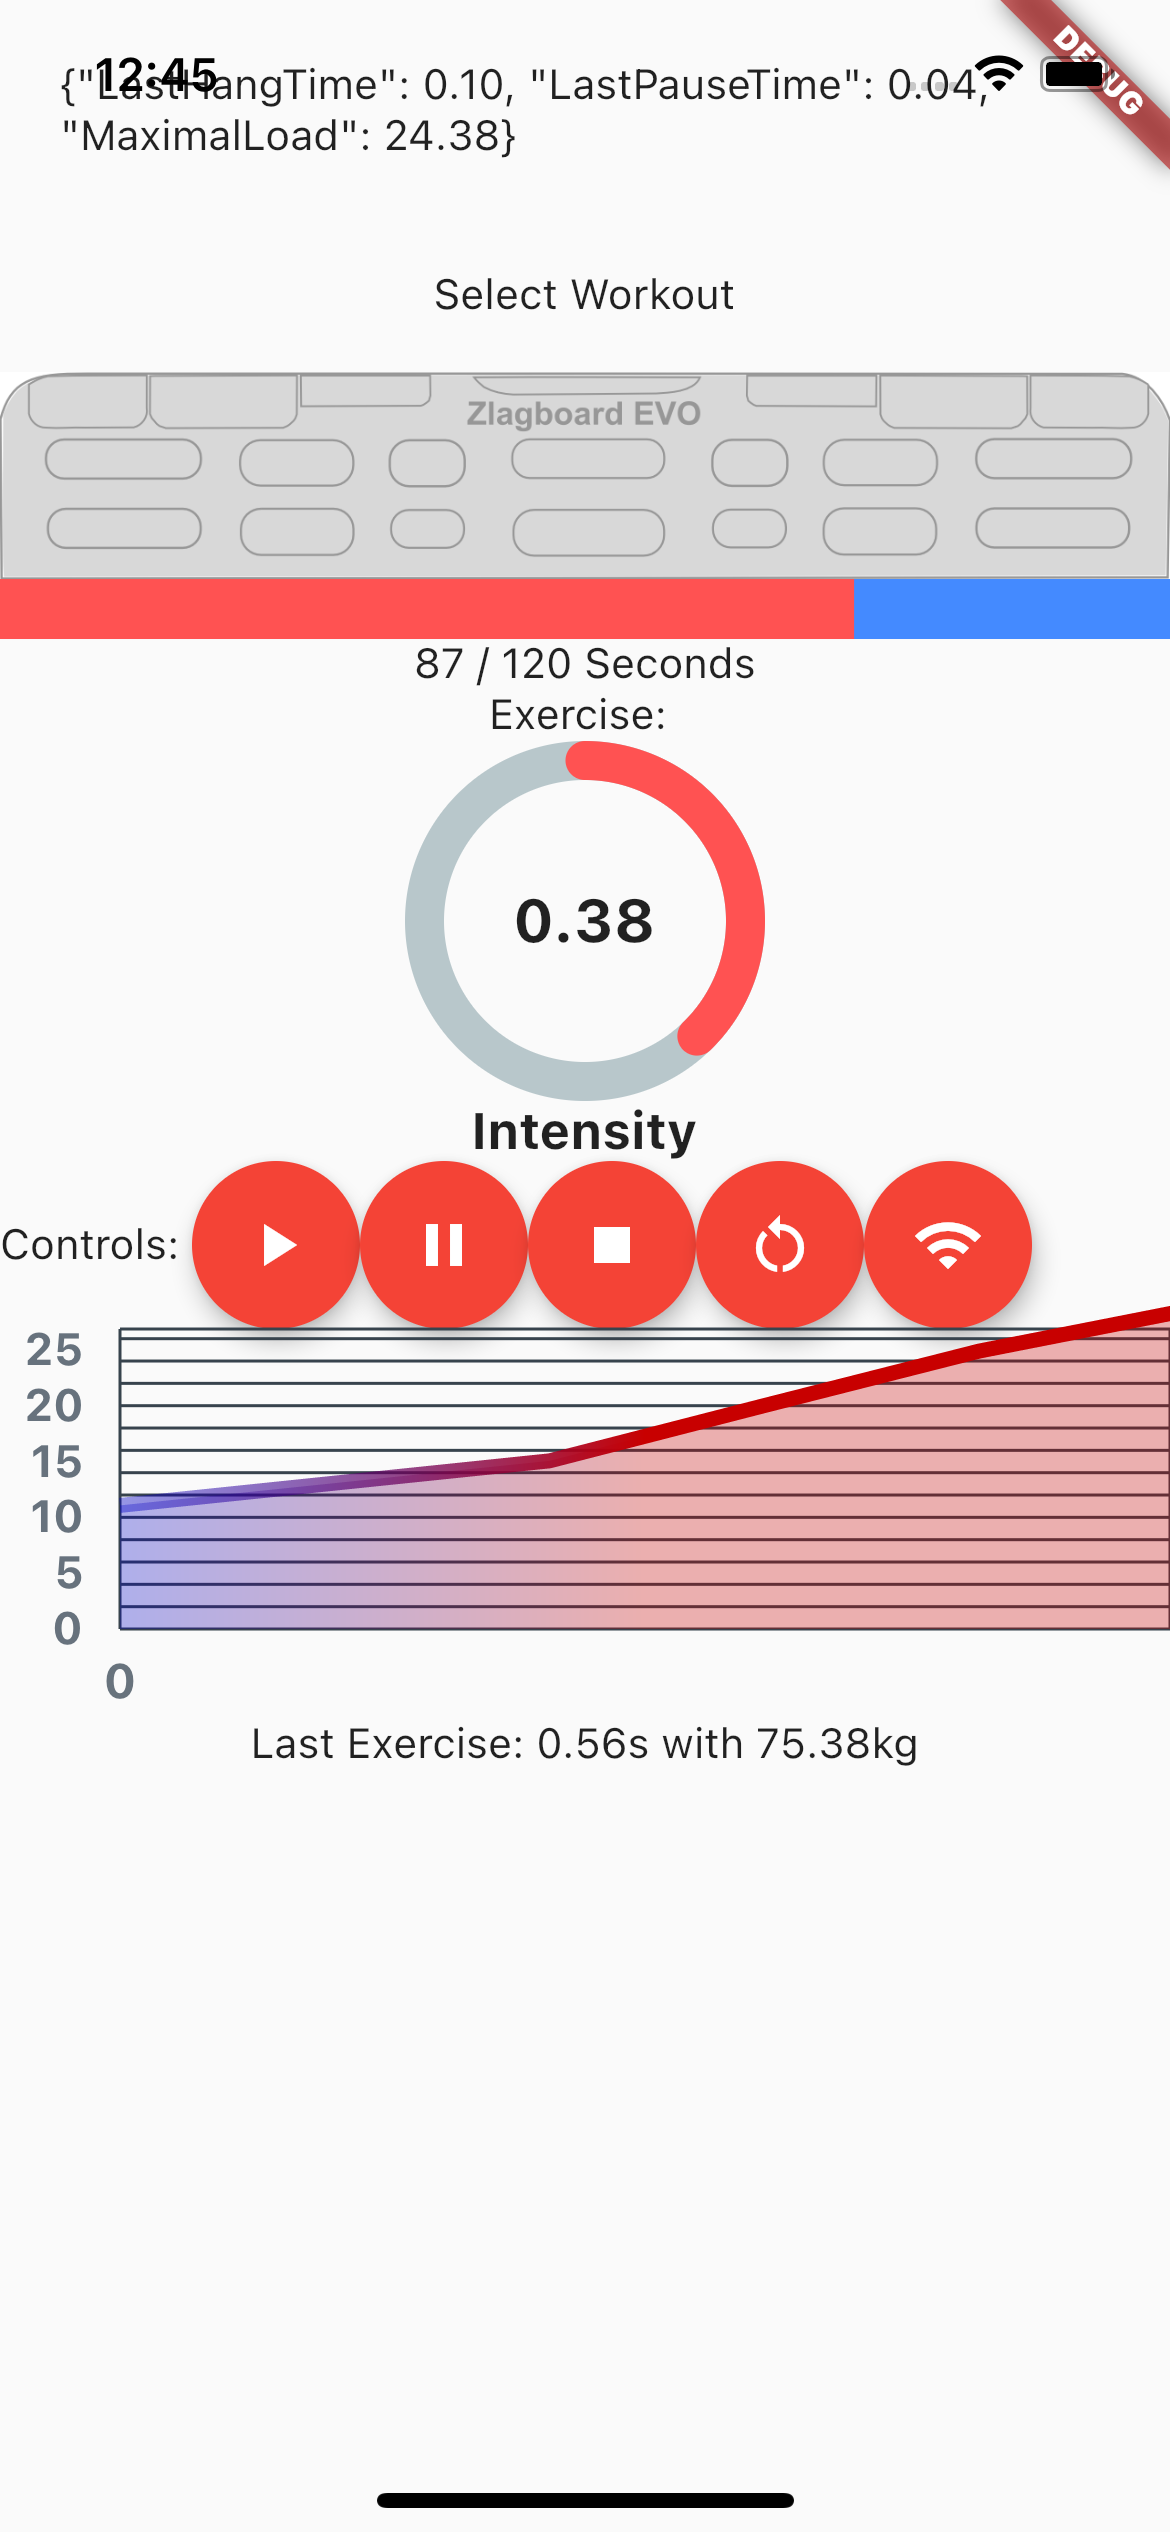
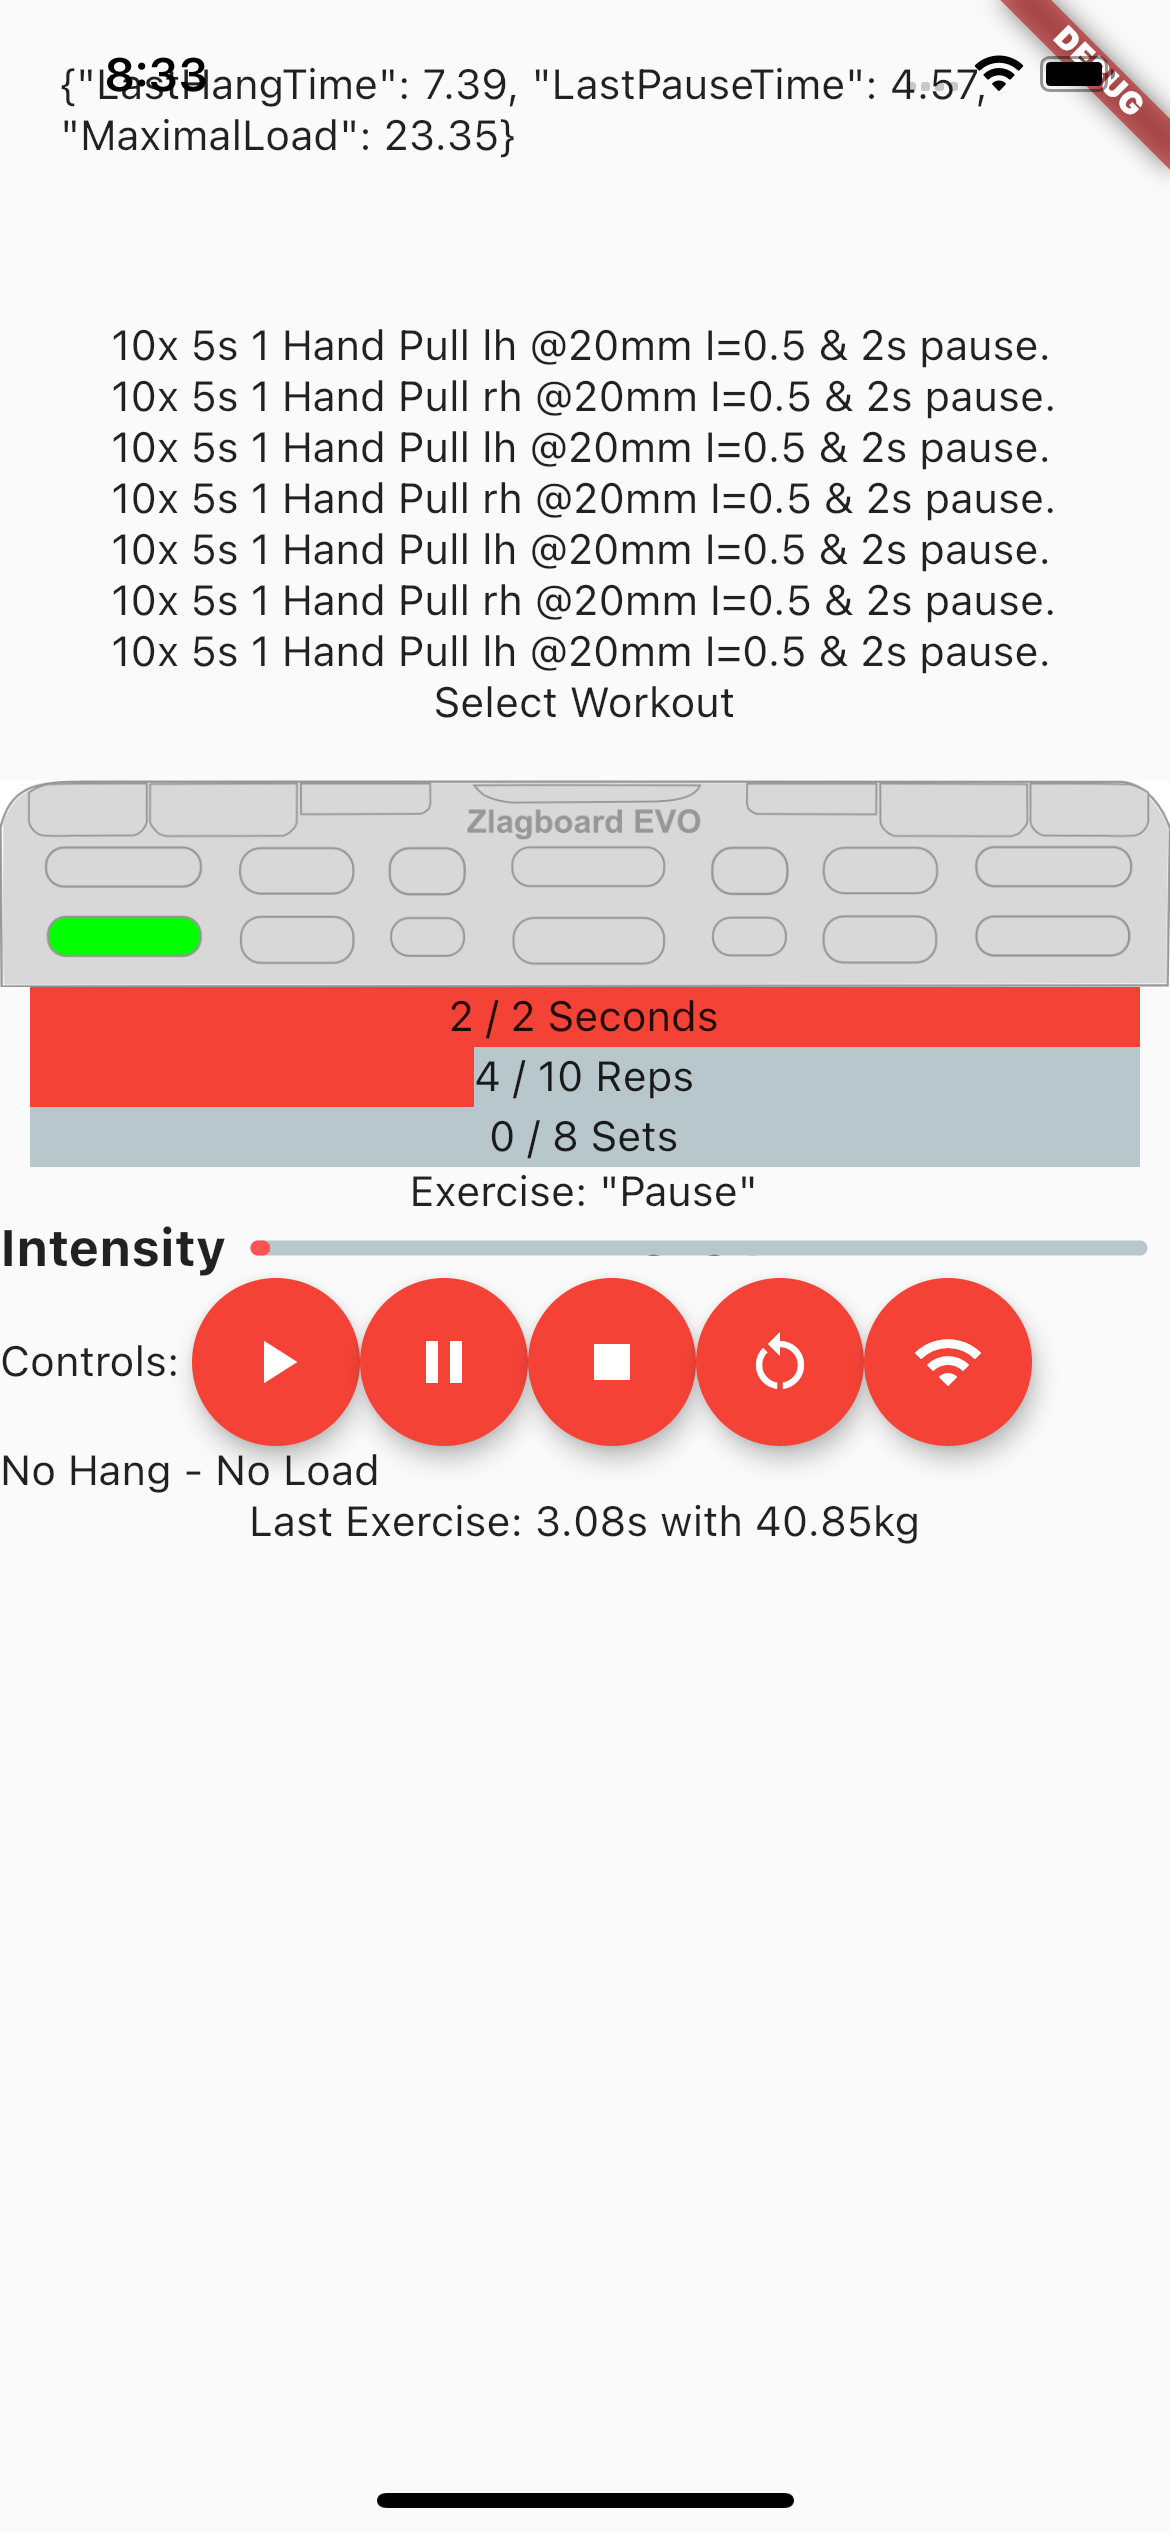
update screenshot

diff --git a/CHANGELOG.md b/CHANGELOG.md
@@ -1,3 +1,5 @@
+
+- v0.58 - Progress bar (#103), bugfixes (#101).
 - v0.57 - Bugfixes (#99, #104)
 - v0.56 - Implemented 1 hand hold display (#96, #97), display next exercise intensity (#98).
 - v0.55 - Display upcoming sets (#58), MVC workout (#89), estimate maximal boulder grade from MVC (#90).
